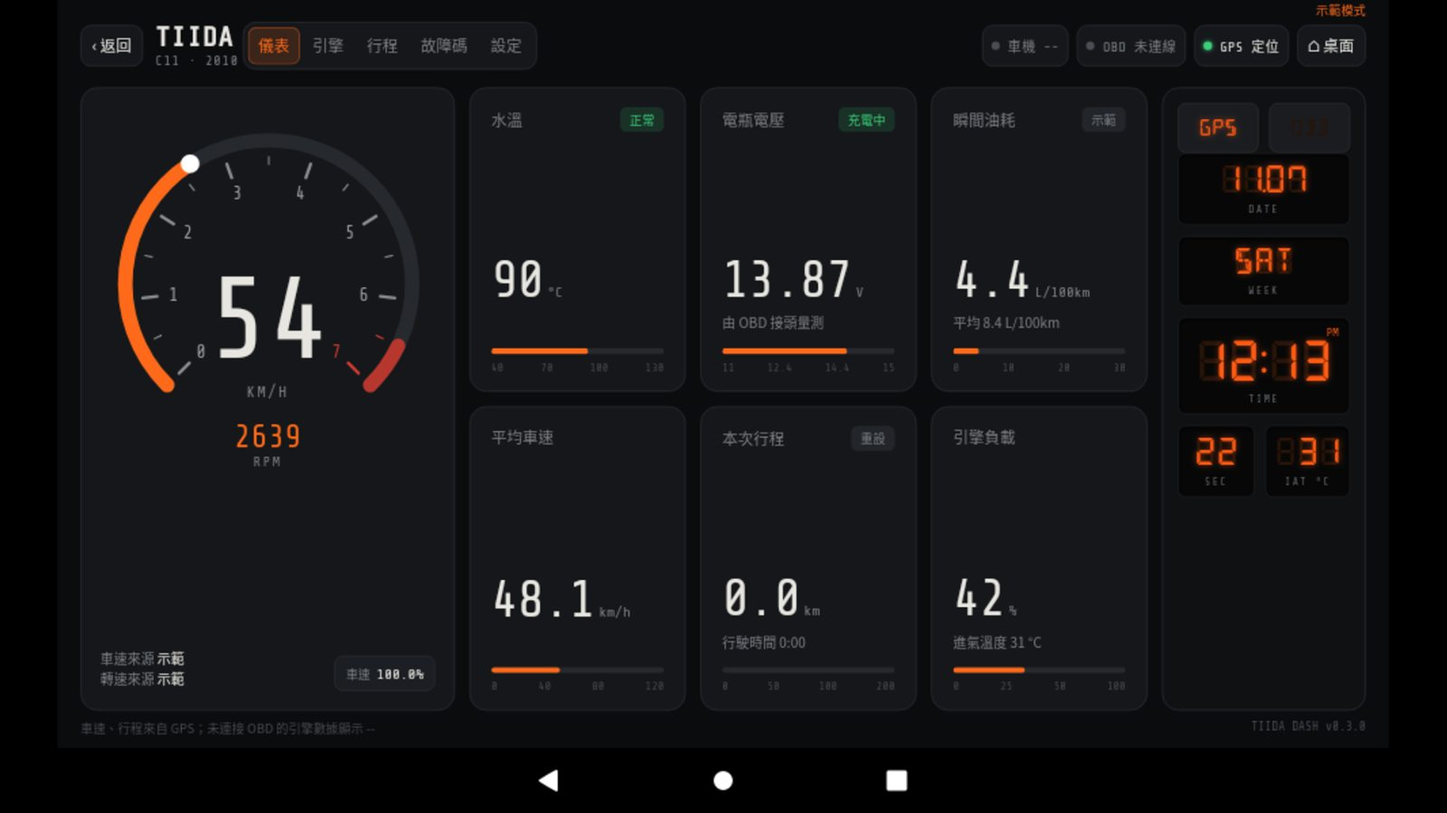
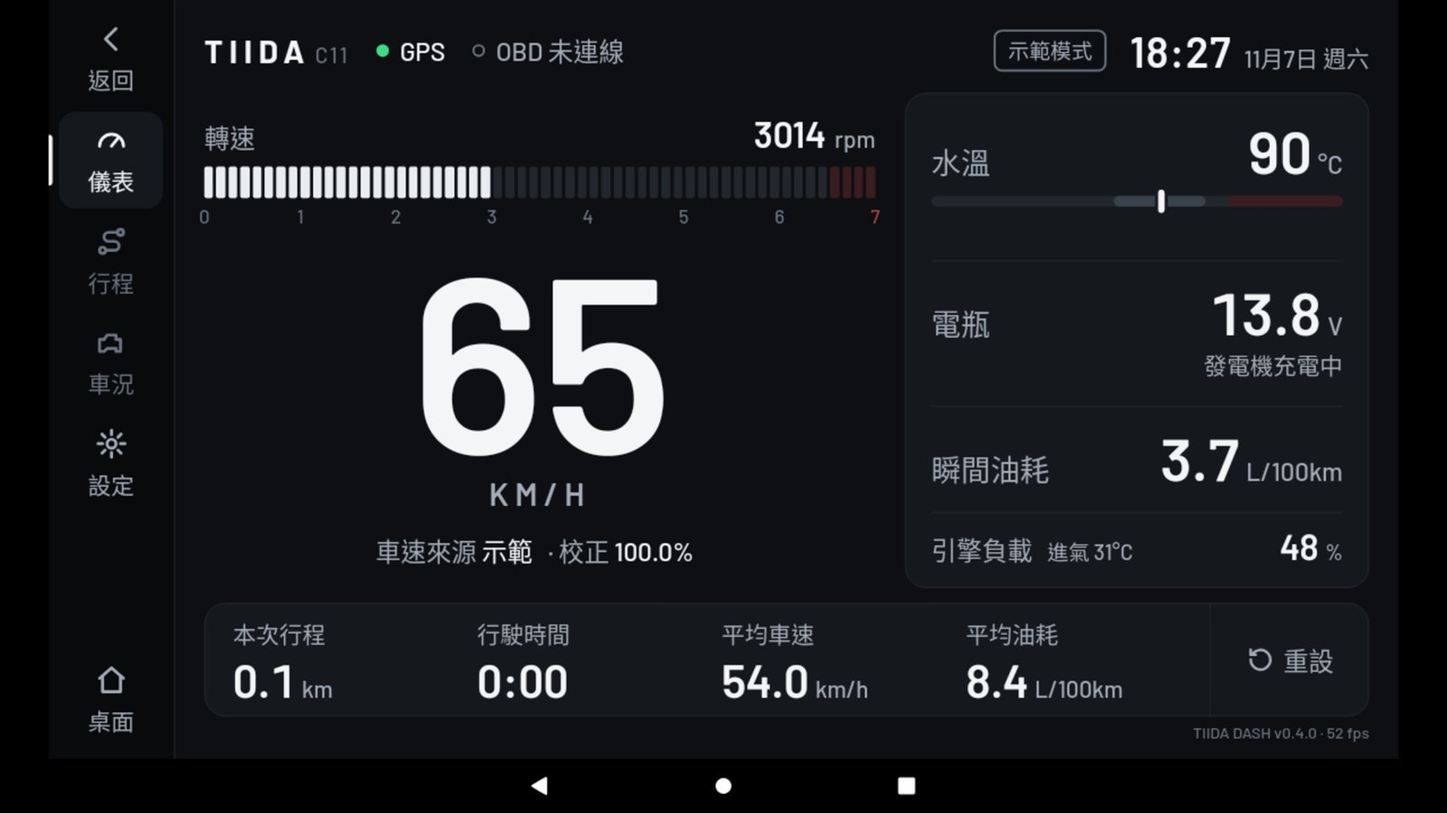
Update the site for the v0.4 redesign
The dashboard no longer copies the E91 look, so the page follows it:
graphite and white with colour only for status, Barlow instead of the
LED and monospace fonts, a new section on the in-car design rules, and
new screenshots of v0.4 and its prototypes. Removes the unused DSEG
font and the old lite-mode image.

diff --git a/index.html b/index.html
@@ -10,28 +10,24 @@
 <meta property="og:image" content="assets/img/dashboard-demo.jpg">
 <link rel="preconnect" href="https://fonts.googleapis.com">
 <link rel="preconnect" href="https://fonts.gstatic.com" crossorigin>
-<link rel="stylesheet" href="https://fonts.googleapis.com/css2?family=Barlow+Semi+Condensed:wght@500;600;700&family=Noto+Sans+TC:wght@400;500;700&family=Share+Tech+Mono&display=swap">
+<link rel="stylesheet" href="https://fonts.googleapis.com/css2?family=Barlow:wght@500;600;700&family=Noto+Sans+TC:wght@400;500;700&display=swap">
 <style>
-/* Layout: one instrument-panel column. Night-cabin palette by choice (single dark theme):
-   the page looks like the dashboard it describes. Orange = the gauge needle and LED clock. */
-@font-face { font-family: "DSEG7"; src: url("assets/fonts/DSEG7Classic-Bold.woff2") format("woff2"); font-display: swap; }
+/* 和儀表 v0.4 同一套視覺：深色石墨底、白灰文字，顏色只用來表示狀態（綠＝完成、琥珀＝等待）。
+   單一深色主題是刻意的：頁面長得像它介紹的儀表。 */
 :root {
   color-scheme: dark;
-  --bg: #0c0d10;
-  --panel: #15171b;
-  --panel-2: #1c1f24;
-  --line: #2a2e34;
-  --ink: #ebe8e2;
-  --muted: #9a9fa6;
-  --dim: #5d636b;
-  --accent: #ff6a1a;
-  --accent-soft: rgba(255, 106, 26, 0.14);
-  --ok: #3ccf7a;
-  --wait: #f2b84b;
-  --display: "Barlow Semi Condensed", "Noto Sans TC", "Microsoft JhengHei", sans-serif;
+  --bg: #0d0f12;
+  --panel: #15181d;
+  --panel-2: #1c2026;
+  --line: #262b33;
+  --ink: #f3f5f7;
+  --muted: #a3acb7;
+  --dim: #6b7480;
+  --ok: #3ddc84;
+  --wait: #ffb020;
+  --display: "Barlow", "Noto Sans TC", "Microsoft JhengHei", sans-serif;
   --body: "Noto Sans TC", "Microsoft JhengHei", "PingFang TC", sans-serif;
-  --num: "Share Tech Mono", ui-monospace, "Consolas", monospace;
-  --led: "DSEG7", "Share Tech Mono", monospace;
+  --num: "Barlow", "Roboto", "Arial", sans-serif;
 }
 * { box-sizing: border-box; }
 html { background: var(--bg); }
@@ -41,29 +37,30 @@ body {
   padding-left: max(20px, env(safe-area-inset-left, 0px)); padding-right: max(20px, env(safe-area-inset-right, 0px));
 }
 .wrap { max-width: 1080px; margin: 0 auto; }
-a { color: var(--accent); text-underline-offset: 3px; }
-a:focus-visible, button:focus-visible { outline: 3px solid var(--accent); outline-offset: 3px; border-radius: 4px; }
+a { color: var(--ink); text-decoration-color: var(--dim); text-underline-offset: 3px; }
+a:hover { text-decoration-color: var(--ink); }
+a:focus-visible, button:focus-visible { outline: 3px solid var(--ink); outline-offset: 3px; border-radius: 4px; }
 img { max-width: 100%; display: block; }
 
 /* ---------- 頂部 ---------- */
 .top { display: flex; align-items: center; justify-content: space-between; gap: 16px; padding-block: 22px 8px; flex-wrap: wrap; }
-.brand { font: 700 20px var(--display); letter-spacing: .08em; }
-.brand span { color: var(--dim); font: 14px var(--num); letter-spacing: .1em; margin-left: 10px; }
+.brand { font: 700 20px var(--display); letter-spacing: .3em; }
+.brand span { color: var(--dim); font: 500 14px var(--num); letter-spacing: .12em; margin-left: 6px; }
 .pills { display: flex; gap: 8px; flex-wrap: wrap; }
-.pill { display: inline-flex; align-items: center; gap: 8px; padding: 6px 12px; border: 1px solid var(--line); border-radius: 999px; font: 13px var(--num); color: var(--muted); letter-spacing: .04em; }
-.dot { width: 8px; height: 8px; border-radius: 50%; background: var(--dim); }
-.dot.ok { background: var(--ok); box-shadow: 0 0 6px var(--ok); }
-.dot.wait { background: var(--wait); }
+.pill { display: inline-flex; align-items: center; gap: 8px; padding: 6px 12px; border: 1px solid var(--line); border-radius: 999px; font: 500 14px var(--body); color: var(--muted); }
+.dot { width: 9px; height: 9px; border-radius: 50%; border: 2px solid var(--dim); flex: none; }
+.dot.ok { background: var(--ok); border-color: var(--ok); }
+.dot.wait { background: var(--wait); border-color: var(--wait); }
 
 /* ---------- Hero ---------- */
 .hero { padding-block: 40px 28px; display: grid; gap: 28px; }
-.eyebrow { font: 600 14px var(--display); letter-spacing: .16em; text-transform: uppercase; color: var(--accent); }
+.eyebrow { font: 600 15px var(--display); letter-spacing: .14em; text-transform: uppercase; color: var(--muted); }
 h1 { margin: 0; font: 700 clamp(40px, 7vw, 76px)/1.05 var(--display); letter-spacing: .01em; text-wrap: balance; }
 .lead { margin: 0; max-width: 40em; color: var(--muted); font-size: 19px; }
-.readout { display: flex; gap: 28px; flex-wrap: wrap; }
+.readout { display: flex; gap: 36px; flex-wrap: wrap; }
 .readout div { display: grid; }
-.readout b { font: 34px/1.1 var(--led); color: var(--accent); text-shadow: 0 0 10px rgba(255,106,26,.45); }
-.readout small { font: 12px var(--num); color: var(--dim); letter-spacing: .14em; text-transform: uppercase; margin-top: 6px; }
+.readout b { font: 600 44px/1 var(--num); font-variant-numeric: tabular-nums; color: var(--ink); }
+.readout small { font: 500 14px var(--body); color: var(--muted); margin-top: 8px; }
 .shot { border: 1px solid var(--line); border-radius: 14px; overflow: hidden; background: #000; }
 .shot img { width: 100%; height: auto; }
 figure { margin: 0; }
@@ -79,16 +76,26 @@ p { margin: 0 0 14px; }
 /* 三個步驟：真的有先後順序，所以用編號 */
 .steps { display: grid; grid-template-columns: repeat(3, 1fr); gap: 16px; }
 .step { background: var(--panel); border: 1px solid var(--line); border-radius: 14px; padding: 22px; display: grid; gap: 10px; align-content: start; }
-.step .n { font: 30px var(--led); color: var(--accent); }
+.step .n { font: 600 30px/1 var(--num); color: var(--dim); }
 .step p { color: var(--muted); font-size: 15.5px; margin: 0; }
-.status { display: inline-flex; align-items: center; gap: 8px; font: 13px var(--num); color: var(--muted); letter-spacing: .04em; }
+.status { display: inline-flex; align-items: center; gap: 8px; font: 500 14px var(--body); color: var(--muted); }
+
+/* 設計原則 */
+.rules { display: grid; grid-template-columns: repeat(2, 1fr); gap: 16px; }
+.rule { padding: 20px 22px; background: var(--panel); border: 1px solid var(--line); border-radius: 14px; }
+.rule p { color: var(--muted); font-size: 15.5px; margin: 0; }
+.rule small { display: block; margin-top: 10px; color: var(--dim); font-size: 13.5px; }
+.rule small a { color: var(--muted); }
+.swatches { display: flex; gap: 14px; flex-wrap: wrap; margin-top: 12px; }
+.swatches span { display: inline-flex; align-items: center; gap: 8px; color: var(--muted); font-size: 14px; }
+.swatches i { width: 14px; height: 14px; border-radius: 4px; }
 
 /* 畫面 */
 .gallery { display: grid; grid-template-columns: repeat(2, 1fr); gap: 22px; }
 .gallery .wide { grid-column: 1 / -1; }
-.tag { display: inline-block; font: 12px var(--num); letter-spacing: .08em; padding: 2px 8px; border-radius: 6px; margin-right: 8px; vertical-align: 1px; }
-.tag.real { background: rgba(60,207,122,.14); color: var(--ok); }
-.tag.proto { background: var(--accent-soft); color: var(--accent); }
+.tag { display: inline-block; font: 500 12.5px var(--body); padding: 1px 8px; border-radius: 6px; margin-right: 8px; vertical-align: 1px; }
+.tag.real { background: rgba(61,220,132,.14); color: var(--ok); }
+.tag.proto { background: var(--panel-2); color: var(--muted); border: 1px solid var(--line); }
 
 /* 功能 */
 .features { display: grid; grid-template-columns: repeat(2, 1fr); gap: 16px; }
@@ -104,27 +111,28 @@ p { margin: 0 0 14px; }
 .flow { display: grid; grid-template-columns: repeat(4, 1fr); gap: 0; border: 1px solid var(--line); border-radius: 14px; overflow: hidden; }
 .flow div { padding: 20px; background: var(--panel); border-right: 1px solid var(--line); }
 .flow div:last-child { border-right: 0; }
-.flow b { display: block; font: 600 13px var(--num); color: var(--accent); letter-spacing: .08em; margin-bottom: 6px; }
+.flow b { display: block; font: 600 14px var(--num); color: var(--ink); letter-spacing: .14em; margin-bottom: 6px; }
 .flow p { margin: 0; color: var(--muted); font-size: 15px; }
 .stats { display: flex; flex-wrap: wrap; gap: 36px; margin-top: 28px; }
 .stats div { display: grid; }
-.stats b { font: 30px var(--led); color: var(--ink); }
+.stats b { font: 600 36px/1.1 var(--num); font-variant-numeric: tabular-nums; color: var(--ink); }
 .stats small { color: var(--muted); font-size: 14px; }
-.note { margin-top: 24px; padding: 16px 20px; border-left: 3px solid var(--accent); background: var(--panel); border-radius: 0 10px 10px 0; color: var(--muted); font-size: 15.5px; }
+.note { margin-top: 24px; padding: 16px 20px; border-left: 3px solid var(--muted); background: var(--panel); border-radius: 0 10px 10px 0; color: var(--muted); font-size: 15.5px; }
 .note b { color: var(--ink); font-weight: 500; }
 
 /* 進度表 */
 .table { overflow-x: auto; border: 1px solid var(--line); border-radius: 14px; }
 table { width: 100%; border-collapse: collapse; min-width: 560px; font-size: 15.5px; }
 th, td { text-align: left; padding: 14px 18px; border-bottom: 1px solid var(--line); vertical-align: top; }
-th { font: 600 13px var(--num); color: var(--dim); letter-spacing: .1em; background: var(--panel); }
+th { font: 600 14px var(--body); color: var(--dim); background: var(--panel); }
 tr:last-child td { border-bottom: 0; }
 td:first-child { white-space: nowrap; }
 
 footer { margin-top: 64px; padding-block: 28px max(36px, env(safe-area-inset-bottom, 0px)); border-top: 1px solid var(--line); color: var(--dim); font-size: 14px; display: grid; gap: 8px; }
+footer a { color: var(--muted); }
 
 @media (max-width: 820px) {
-  .steps, .features { grid-template-columns: 1fr; }
+  .steps, .features, .rules { grid-template-columns: 1fr; }
   .gallery { grid-template-columns: 1fr; }
   .flow { grid-template-columns: 1fr 1fr; }
   .flow div:nth-child(2) { border-right: 0; }
@@ -135,8 +143,8 @@ footer { margin-top: 64px; padding-block: 28px max(36px, env(safe-area-inset-bot
   .flow { grid-template-columns: 1fr; }
   .flow div { border-right: 0; border-bottom: 1px solid var(--line); }
   .flow div:last-child { border-bottom: 0; }
-  .readout { gap: 20px; }
-  .readout b { font-size: 28px; }
+  .readout { gap: 22px; }
+  .readout b { font-size: 36px; }
 }
 @media (prefers-reduced-motion: reduce) { * { scroll-behavior: auto !important; } }
 </style>
@@ -145,7 +153,7 @@ footer { margin-top: 64px; padding-block: 28px max(36px, env(safe-area-inset-bot
 <div class="wrap">
 
   <header class="top">
-    <div class="brand">TIIDA 儀表<span>C11 · 2010</span></div>
+    <div class="brand">TIIDA<span>C11 · 2010</span></div>
     <div class="pills" aria-label="目前狀態">
       <span class="pill"><i class="dot ok"></i>模擬器測試通過</span>
       <span class="pill"><i class="dot wait"></i>等待車機實測</span>
@@ -161,18 +169,18 @@ footer { margin-top: 64px; padding-block: 28px max(36px, env(safe-area-inset-bot
       <div class="readout" aria-label="專案數字">
         <div><b>2</b><small>Android App</small></div>
         <div><b>2</b><small>種螢幕尺寸自動測試</small></div>
-        <div><b>13</b><small>實作任務</small></div>
+        <div><b>16</b><small>實作任務</small></div>
         <div><b>2</b><small>GB 車機記憶體</small></div>
       </div>
       <figure>
-        <div class="shot"><img src="assets/img/dashboard-demo.jpg" width="1600" height="900" alt="全螢幕儀表示範模式：左邊轉速錶與車速 54 km/h，中間水溫 90°C、電壓 13.87 V、油耗、平均車速、本次行程、引擎負載六格，右邊橘色 LED 時鐘。"></div>
-        <figcaption><span class="tag real">實際畫面</span>全螢幕儀表 v0.3（Android 模擬器、示範模式）。</figcaption>
+        <div class="shot"><img src="assets/img/dashboard-demo.jpg" width="1600" height="900" alt="全螢幕儀表 v0.4 示範模式：左側導覽列，中間大字車速與橫向分段轉速條，右邊水溫、電瓶、瞬間油耗與引擎負載清單，底部是本次行程、行駛時間、平均車速與平均油耗。"></div>
+        <figcaption><span class="tag real">實際畫面</span>全螢幕儀表 v0.4（Android 模擬器、示範模式）。</figcaption>
       </figure>
     </div>
 
     <section id="origin">
       <h2>從一則 Threads 開始</h2>
-      <p class="sub">這個專案照著 <a href="https://www.threads.com/@johnnp/post/DfaVdEok_AA">@johnnp 的〈E91 儀表．開發紀錄〉</a>的三個步驟做。原作者在 BMW E91 的 KSW 車機上做了新儀表；這裡換成 Nissan Tiida 和 JHY 車機，每一步都依車子重新設計。</p>
+      <p class="sub">這個專案照著 <a href="https://www.threads.com/@johnnp/post/DfaVdEok_AA">@johnnp 的〈E91 儀表．開發紀錄〉</a>的三個步驟做。原作者在 BMW E91 的 KSW 車機上做了新儀表；這裡換成 Nissan Tiida 和 JHY 車機，每一步都依車子重新設計。畫面從 v0.4 起也換成自己的設計，見下一節。</p>
       <div class="steps">
         <div class="step">
           <div class="n">01</div>
@@ -195,21 +203,53 @@ footer { margin-top: 64px; padding-block: 28px max(36px, env(safe-area-inset-bot
       </div>
     </section>
 
+    <section id="design">
+      <h2>照車用規範重新設計</h2>
+      <p class="sub">第一版畫面沿用了原作者的樣子：橘色轉速錶、直式 LED 時鐘。v0.4 全部重畫，改依車用介面的公開規範決定字多大、按鈕多大、什麼時候該有顏色。</p>
+      <div class="rules">
+        <div class="rule">
+          <h3>顏色只代表狀態</h3>
+          <p>平常全是白和灰，數值正常就不加「正常」標籤。只有需要注意時才出現顏色，意思和車上的指示燈一樣。</p>
+          <div class="swatches" aria-label="顏色對照">
+            <span><i style="background:#4fa8ff"></i>偏冷・暖車中</span>
+            <span><i style="background:#ffb020"></i>注意</span>
+            <span><i style="background:#ff4d4f"></i>危險</span>
+          </div>
+          <small>依據：ISO 2575 指示燈顏色慣例</small>
+        </div>
+        <div class="rule">
+          <h3>字和按鈕的大小有下限</h3>
+          <p>主要數字至少 32 dp、次要文字 24 dp、可點的地方至少 76×76 dp，再換算成車機 1024×600 螢幕的實際大小。</p>
+          <small>依據：<a href="https://developers.google.com/cars/design/design-foundations/visual-principles">Android for Cars 視覺原則</a></small>
+        </div>
+        <div class="rule">
+          <h3>車速是唯一主角</h3>
+          <p>車速置中放大、數字等寬不跳動；寬扁的螢幕適合橫向的錶，所以轉速改成一條分段燈條。提醒固定出現在車速正下方。</p>
+          <small>依據：<a href="https://developer.apple.com/videos/play/wwdc2024/10112/">WWDC24 次世代 CarPlay 設計</a>、賽車儀表的分段轉速燈</small>
+        </div>
+        <div class="rule">
+          <h3>行車中只看不按</h3>
+          <p>一眼看完、不用操作；提醒不跳視窗、不出聲。沒有資料的項目整塊收起來，不擺一排「--」。</p>
+          <small>依據：<a href="https://www.nhtsa.gov/sites/nhtsa.gov/files/811781.pdf">NHTSA 分心駕駛指引</a>（單次視線離開路面不超過 2 秒）</small>
+        </div>
+      </div>
+    </section>
+
     <section id="screens">
       <h2>畫面</h2>
       <p class="sub">標「實際畫面」的是 App 在 Android 模擬器上的截圖；標「原型」的是設計稿，背景的 CarPlay 是示意圖。</p>
       <div class="gallery">
         <figure class="wide">
-          <div class="shot"><img src="assets/img/overlay-prototype.jpg" width="1280" height="720" loading="lazy" alt="懸浮小框原型：導航畫面右上角疊一個半透明深色小框，顯示車速 65 km/h、水溫 90°C、油耗 3.3。"></div>
-          <figcaption><span class="tag proto">原型</span>懸浮小框疊在 CarPlay 右上角，避開左側的 App 列。可拖曳、會貼齊角落，點一下開全螢幕儀表。</figcaption>
+          <div class="shot"><img src="assets/img/overlay-prototype.jpg" width="1280" height="720" loading="lazy" alt="懸浮小框原型：導航畫面右上角疊一個橫向深色膠囊，顯示車速、水溫與油耗；左邊列出只有 GPS、暖車中（水溫藍色）、水溫偏高（琥珀色邊框）、水溫過高（紅色）四種樣子。"></div>
+          <figcaption><span class="tag proto">原型</span>懸浮小框疊在 CarPlay 右上角，避開左側的 App 列；平常灰白，水溫異常才變色。現在的 App 先做只有 GPS 的版本。</figcaption>
         </figure>
         <figure>
-          <div class="shot"><img src="assets/img/dashboard-live.jpg" width="1600" height="900" loading="lazy" alt="全螢幕儀表實際模式：沒有 OBD 的格子顯示 -- 並變淡，本次行程 0.0 km。"></div>
-          <figcaption><span class="tag real">實際畫面</span>還沒接 OBD：引擎數據顯示「--」並淡化，車速和行程來自 GPS。</figcaption>
+          <div class="shot"><img src="assets/img/dashboard-live.jpg" width="1600" height="900" loading="lazy" alt="全螢幕儀表實際模式：還沒接 OBD，右邊是一張說明卡，GPS 還沒定位時車速顯示灰色的兩條短槓。"></div>
+          <figcaption><span class="tag real">實際畫面</span>還沒接 OBD：車況欄換成一張說明卡；GPS 還沒定位時車速顯示灰色「--」。</figcaption>
         </figure>
         <figure>
-          <div class="shot"><img src="assets/img/dashboard-lite.jpg" width="1600" height="900" loading="lazy" alt="全螢幕儀表輕量模式：LED 時鐘沒有發光，右下角顯示 v0.3.2 · 56 fps · 輕量。"></div>
-          <figcaption><span class="tag real">實際畫面</span>輕量模式：關掉發光與動畫、更新頻率減半，右下角顯示畫面更新率。</figcaption>
+          <div class="shot"><img src="assets/img/dashboard-alert.jpg" width="1280" height="720" loading="lazy" alt="水溫偏高提醒原型：水溫 108°C 以琥珀色顯示，車速縮小，下方出現琥珀色提醒條「水溫偏高 108 °C，留意水溫，停車後檢查副水箱水位」。"></div>
+          <figcaption><span class="tag proto">原型</span>水溫 105 °C 起：數字和提醒條變琥珀色，車速縮小讓出位置；110 °C 起改紅色。</figcaption>
         </figure>
         <figure>
           <div class="shot"><img src="assets/img/settings.jpg" width="1600" height="900" loading="lazy" alt="設定頁：左邊是權限、啟動、示範模式、輕量模式、ZLink 等設定，右邊是診斷資訊，包含系統記憶體與 App 記憶體。"></div>
@@ -226,12 +266,12 @@ footer { margin-top: 64px; padding-block: 28px max(36px, env(safe-area-inset-bot
       <h2>做了什麼</h2>
       <p class="sub">兩個 App：<b>Tiida Probe</b> 只跑一次，用來了解車機；<b>Tiida Dashboard</b> 是每天用的儀表。</p>
       <div class="features">
-        <div class="feature"><h3>懸浮小框<span class="status"><i class="dot ok"></i>完成</span></h3><p>原生小元件，每秒更新 4 次；模擬器上整個 App 約 33 MB。框以外的觸控照樣傳給 CarPlay；長按隱藏 5 分鐘。</p></div>
-        <div class="feature"><h3>全螢幕儀表<span class="status"><i class="dot ok"></i>完成</span></h3><p>轉速錶、六格資訊、直式 LED 時鐘。用 WebView 顯示，程式與樣式都限制在車機舊版 Chrome 74 能跑的範圍。</p></div>
+        <div class="feature"><h3>懸浮小框<span class="status"><i class="dot ok"></i>完成</span></h3><p>原生小元件，每秒更新 4 次；橫向膠囊只佔地圖角落一條。框以外的觸控照樣傳給 CarPlay；長按隱藏 5 分鐘。</p></div>
+        <div class="feature"><h3>全螢幕儀表<span class="status"><i class="dot ok"></i>完成</span></h3><p>大字車速、分段轉速條、水溫刻度與車況清單、行程列。用 WebView 顯示，程式與樣式都限制在車機舊版 Chrome 74 能跑的範圍。</p></div>
         <div class="feature"><h3>GPS 行程<span class="status"><i class="dot ok"></i>完成</span></h3><p>本次里程、行駛時間、平均車速；過濾 GPS 跳點，重開 App 不歸零。</p></div>
-        <div class="feature"><h3>為 2GB 車機減重<span class="status"><i class="dot ok"></i>完成</span></h3><p>切回 CarPlay 時全螢幕儀表直接釋放；輕量模式關掉特效；診斷區顯示實際記憶體用量。</p></div>
+        <div class="feature"><h3>為 2GB 車機減重<span class="status"><i class="dot ok"></i>完成</span></h3><p>切回 CarPlay 時全螢幕儀表直接釋放；輕量模式降低更新頻率；診斷區顯示實際記憶體用量。</p></div>
         <div class="feature"><h3>OBD 引擎數據<span class="status"><i class="dot"></i>規劃中</span></h3><p>轉速、水溫、進氣量算油耗、電瓶電壓、故障碼。連線後先問車子支援哪些項目，只顯示真的有的。</p></div>
-        <div class="feature"><h3>水溫異常提醒<span class="status"><i class="dot"></i>規劃中</span></h3><p>Tiida 沒有冷卻水水位感知器。改成學習平常的水溫，偏高、忽高忽低或暖車變慢時提醒去看副水箱。</p></div>
+        <div class="feature"><h3>水溫異常提醒<span class="status"><i class="dot"></i>畫面完成，等 OBD</span></h3><p>Tiida 沒有冷卻水水位感知器。改成學習平常的水溫，偏高、忽高忽低或暖車變慢時提醒去看副水箱。</p></div>
       </div>
     </section>
 
@@ -241,34 +281,34 @@ footer { margin-top: 64px; padding-block: 28px max(36px, env(safe-area-inset-bot
       <div class="diagram" role="img" aria-label="資料流：GPS、OBD 接頭（之後）、車機資料（待探測）進入前景服務 DashService，再到 DataHub 與 TripStore，最後分給懸浮小框與全螢幕儀表。">
         <svg viewBox="0 0 900 260" xmlns="http://www.w3.org/2000/svg" font-family="Noto Sans TC, Microsoft JhengHei, sans-serif">
           <defs>
-            <marker id="arr" viewBox="0 0 10 10" refX="9" refY="5" markerWidth="7" markerHeight="7" orient="auto"><path d="M0 0 L10 5 L0 10 z" fill="#9a9fa6"/></marker>
+            <marker id="arr" viewBox="0 0 10 10" refX="9" refY="5" markerWidth="7" markerHeight="7" orient="auto"><path d="M0 0 L10 5 L0 10 z" fill="#a3acb7"/></marker>
           </defs>
-          <g font-size="15" fill="#ebe8e2">
-            <rect x="10" y="20" width="170" height="56" rx="10" fill="#1c1f24" stroke="#3ccf7a"/>
+          <g font-size="15" fill="#f3f5f7">
+            <rect x="10" y="20" width="170" height="56" rx="10" fill="#1c2026" stroke="#3ddc84"/>
             <text x="95" y="54" text-anchor="middle">GPS</text>
-            <rect x="10" y="102" width="170" height="56" rx="10" fill="#1c1f24" stroke="#5d636b" stroke-dasharray="6 5"/>
+            <rect x="10" y="102" width="170" height="56" rx="10" fill="#1c2026" stroke="#6b7480" stroke-dasharray="6 5"/>
             <text x="95" y="128" text-anchor="middle">OBD 接頭</text>
-            <text x="95" y="147" text-anchor="middle" font-size="12" fill="#9a9fa6">之後接上</text>
-            <rect x="10" y="184" width="170" height="56" rx="10" fill="#1c1f24" stroke="#5d636b" stroke-dasharray="6 5"/>
+            <text x="95" y="147" text-anchor="middle" font-size="12" fill="#a3acb7">之後接上</text>
+            <rect x="10" y="184" width="170" height="56" rx="10" fill="#1c2026" stroke="#6b7480" stroke-dasharray="6 5"/>
             <text x="95" y="210" text-anchor="middle">車機資料</text>
-            <text x="95" y="229" text-anchor="middle" font-size="12" fill="#9a9fa6">等探測結果</text>
+            <text x="95" y="229" text-anchor="middle" font-size="12" fill="#a3acb7">等探測結果</text>
 
-            <rect x="250" y="88" width="190" height="84" rx="12" fill="#1c1f24" stroke="#ff6a1a"/>
+            <rect x="250" y="88" width="190" height="84" rx="12" fill="#1c2026" stroke="#f3f5f7"/>
             <text x="345" y="124" text-anchor="middle">前景服務</text>
-            <text x="345" y="146" text-anchor="middle" font-size="12" fill="#9a9fa6" font-family="Share Tech Mono, monospace">DashService</text>
+            <text x="345" y="146" text-anchor="middle" font-size="13" fill="#a3acb7" font-family="Barlow, Arial, sans-serif">DashService</text>
 
-            <rect x="500" y="88" width="170" height="84" rx="12" fill="#1c1f24" stroke="#2a2e34"/>
+            <rect x="500" y="88" width="170" height="84" rx="12" fill="#1c2026" stroke="#262b33"/>
             <text x="585" y="124" text-anchor="middle">資料中樞</text>
-            <text x="585" y="146" text-anchor="middle" font-size="12" fill="#9a9fa6" font-family="Share Tech Mono, monospace">DataHub · TripStore</text>
+            <text x="585" y="146" text-anchor="middle" font-size="13" fill="#a3acb7" font-family="Barlow, Arial, sans-serif">DataHub · TripStore</text>
 
-            <rect x="730" y="30" width="160" height="70" rx="12" fill="#1c1f24" stroke="#2a2e34"/>
+            <rect x="730" y="30" width="160" height="70" rx="12" fill="#1c2026" stroke="#262b33"/>
             <text x="810" y="61" text-anchor="middle">懸浮小框</text>
-            <text x="810" y="82" text-anchor="middle" font-size="12" fill="#9a9fa6">疊在 ZLink 上</text>
-            <rect x="730" y="160" width="160" height="70" rx="12" fill="#1c1f24" stroke="#2a2e34"/>
+            <text x="810" y="82" text-anchor="middle" font-size="12" fill="#a3acb7">疊在 ZLink 上</text>
+            <rect x="730" y="160" width="160" height="70" rx="12" fill="#1c2026" stroke="#262b33"/>
             <text x="810" y="191" text-anchor="middle">全螢幕儀表</text>
-            <text x="810" y="212" text-anchor="middle" font-size="12" fill="#9a9fa6">WebView · 離開即釋放</text>
+            <text x="810" y="212" text-anchor="middle" font-size="12" fill="#a3acb7">WebView · 離開即釋放</text>
           </g>
-          <g stroke="#9a9fa6" stroke-width="1.6" fill="none">
+          <g stroke="#a3acb7" stroke-width="1.6" fill="none">
             <path d="M180 48 C215 48 215 112 248 116" marker-end="url(#arr)"/>
             <path d="M180 130 L248 130" stroke-dasharray="6 5" marker-end="url(#arr)"/>
             <path d="M180 212 C215 212 215 148 248 144" stroke-dasharray="6 5" marker-end="url(#arr)"/>
@@ -290,11 +330,11 @@ footer { margin-top: 64px; padding-block: 28px max(36px, env(safe-area-inset-bot
         <div><b>VERIFY</b><p>GitHub Actions 編譯、簽章，在模擬器的 1024×600 與 1280×720 上實際開啟 App、截圖、檢查版面。</p></div>
       </div>
       <div class="stats">
-        <div><b>13</b><small>Codex 實作任務</small></div>
-        <div><b>4</b><small>次獨立 Claude 審查</small></div>
+        <div><b>16</b><small>Codex 實作任務</small></div>
+        <div><b>5</b><small>次獨立 Claude 審查</small></div>
         <div><b>74</b><small>WebView 相容底線（Chrome 版本）</small></div>
       </div>
-      <p class="note"><b>獨立審查有用。</b>第四次審查抓到一個前兩道都漏掉的問題：很多車機開大燈會自動切換夜間模式，這時全螢幕儀表會被誤關。修正後才放行。</p>
+      <p class="note"><b>截圖會說話。</b>改版後的模擬器截圖顯示：GPS 還沒定位時，大字的「--」黏成一條白色粗槓，看起來像畫面壞了。原因是字型會把兩個連字號合成一條長槓，而車機那種舊版瀏覽器核心不會自動取消。測試和電腦預覽都沒抓到，是看模擬器截圖才發現，關掉連字、改成灰色短槓後才放行。</p>
     </section>
 
     <section id="status">
@@ -305,10 +345,10 @@ footer { margin-top: 64px; padding-block: 28px max(36px, env(safe-area-inset-bot
           <thead><tr><th>項目</th><th>狀態</th><th>說明</th></tr></thead>
           <tbody>
             <tr><td>探測 App 0.1.2</td><td><span class="status"><i class="dot ok"></i>完成</span></td><td>系統、螢幕、WebView、廠商服務、藍牙、定位、記憶體、CPU；存檔或 QR 匯出。</td></tr>
-            <tr><td>儀表 App 0.3.2</td><td><span class="status"><i class="dot ok"></i>完成</span></td><td>懸浮小框、全螢幕儀表、GPS 行程、示範與輕量模式。</td></tr>
+            <tr><td>儀表 App 0.4.0</td><td><span class="status"><i class="dot ok"></i>完成</span></td><td>新版畫面、懸浮小框、全螢幕儀表、GPS 行程、示範與輕量模式。</td></tr>
             <tr><td>車機實測</td><td><span class="status"><i class="dot wait"></i>進行中</span></td><td>懸浮框能否疊在 ZLink 上、2GB 記憶體夠不夠、探測報告。</td></tr>
             <tr><td>OBD 數據</td><td><span class="status"><i class="dot"></i>未開始</span></td><td>等探測結果決定接頭型號。</td></tr>
-            <tr><td>水溫異常提醒</td><td><span class="status"><i class="dot"></i>未開始</span></td><td>需要 OBD 的水溫資料。</td></tr>
+            <tr><td>水溫異常提醒</td><td><span class="status"><i class="dot"></i>畫面完成</span></td><td>提醒的版面已做好，需要 OBD 的水溫資料才會動。</td></tr>
           </tbody>
         </table>
       </div>
@@ -317,7 +357,7 @@ footer { margin-top: 64px; padding-block: 28px max(36px, env(safe-area-inset-bot
 
   <footer>
     <span>個人專案，與 Nissan、JHY、ZJINNOVA、Apple 無關；各商標屬其擁有者。原始構想來自 <a href="https://www.threads.com/@johnnp/post/DfaVdEok_AA">@johnnp</a>。</span>
-    <span>字型：DSEG（Keshikan，SIL OFL 1.1）、Share Tech Mono、Barlow Semi Condensed、Noto Sans TC。程式碼目前不公開。</span>
+    <span>字型：Barlow（The Barlow Project Authors，SIL OFL 1.1）、Noto Sans TC。程式碼目前不公開。</span>
   </footer>
 </div>
 </body>

diff --git a/README.md b/README.md
@@ -5,6 +5,6 @@
 網站：https://luboblu.github.io/tiida-dashboard-site/
 
 - 這個 repo 只放介紹頁與截圖，App 的程式碼在另一個私人 repo。
-- 原始構想來自 Threads @johnnp 的〈E91 儀表．開發紀錄〉。
-- 字型：`assets/fonts/DSEG7Classic-Bold.woff2`（DSEG，Keshikan，SIL OFL 1.1，授權見 `assets/fonts/DSEG-LICENSE.txt`）。
+- 原始構想來自 Threads @johnnp 的〈E91 儀表．開發紀錄〉；畫面從 v0.4 起改為依車用介面規範自行設計。
+- 字型由 Google Fonts 提供：Barlow（The Barlow Project Authors，SIL OFL 1.1）、Noto Sans TC。
 - 個人專案，與 Nissan、JHY、ZJINNOVA、Apple 無關；各商標屬其擁有者。
